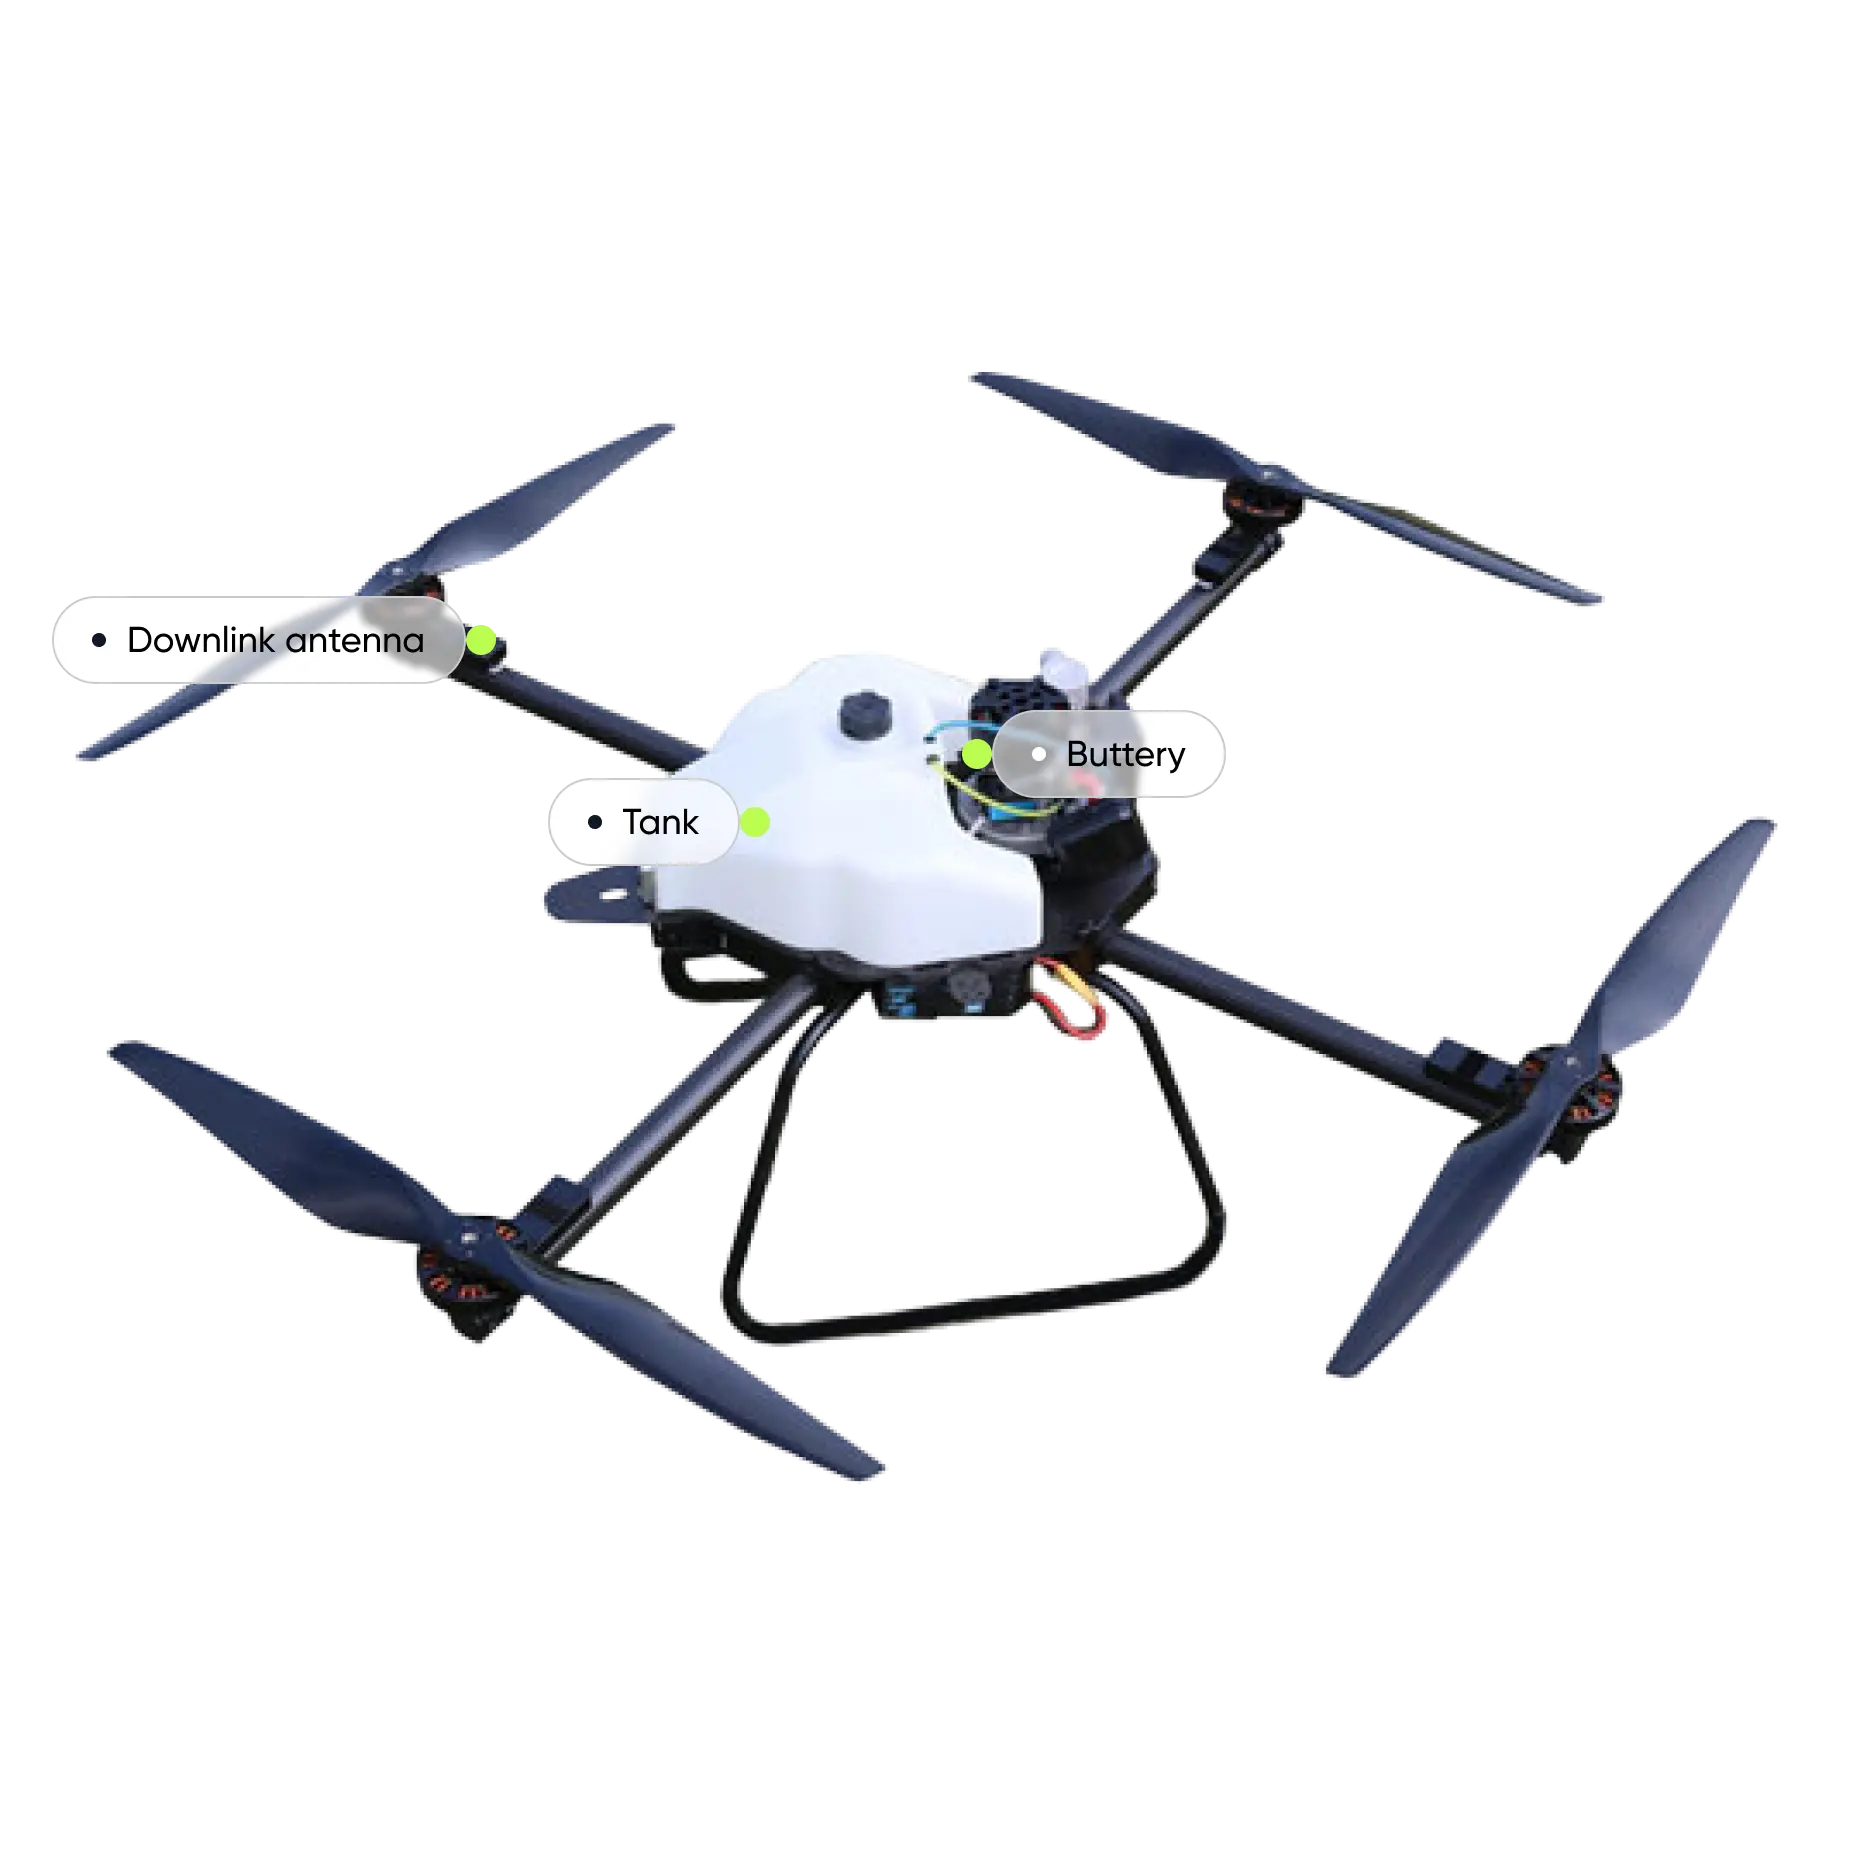
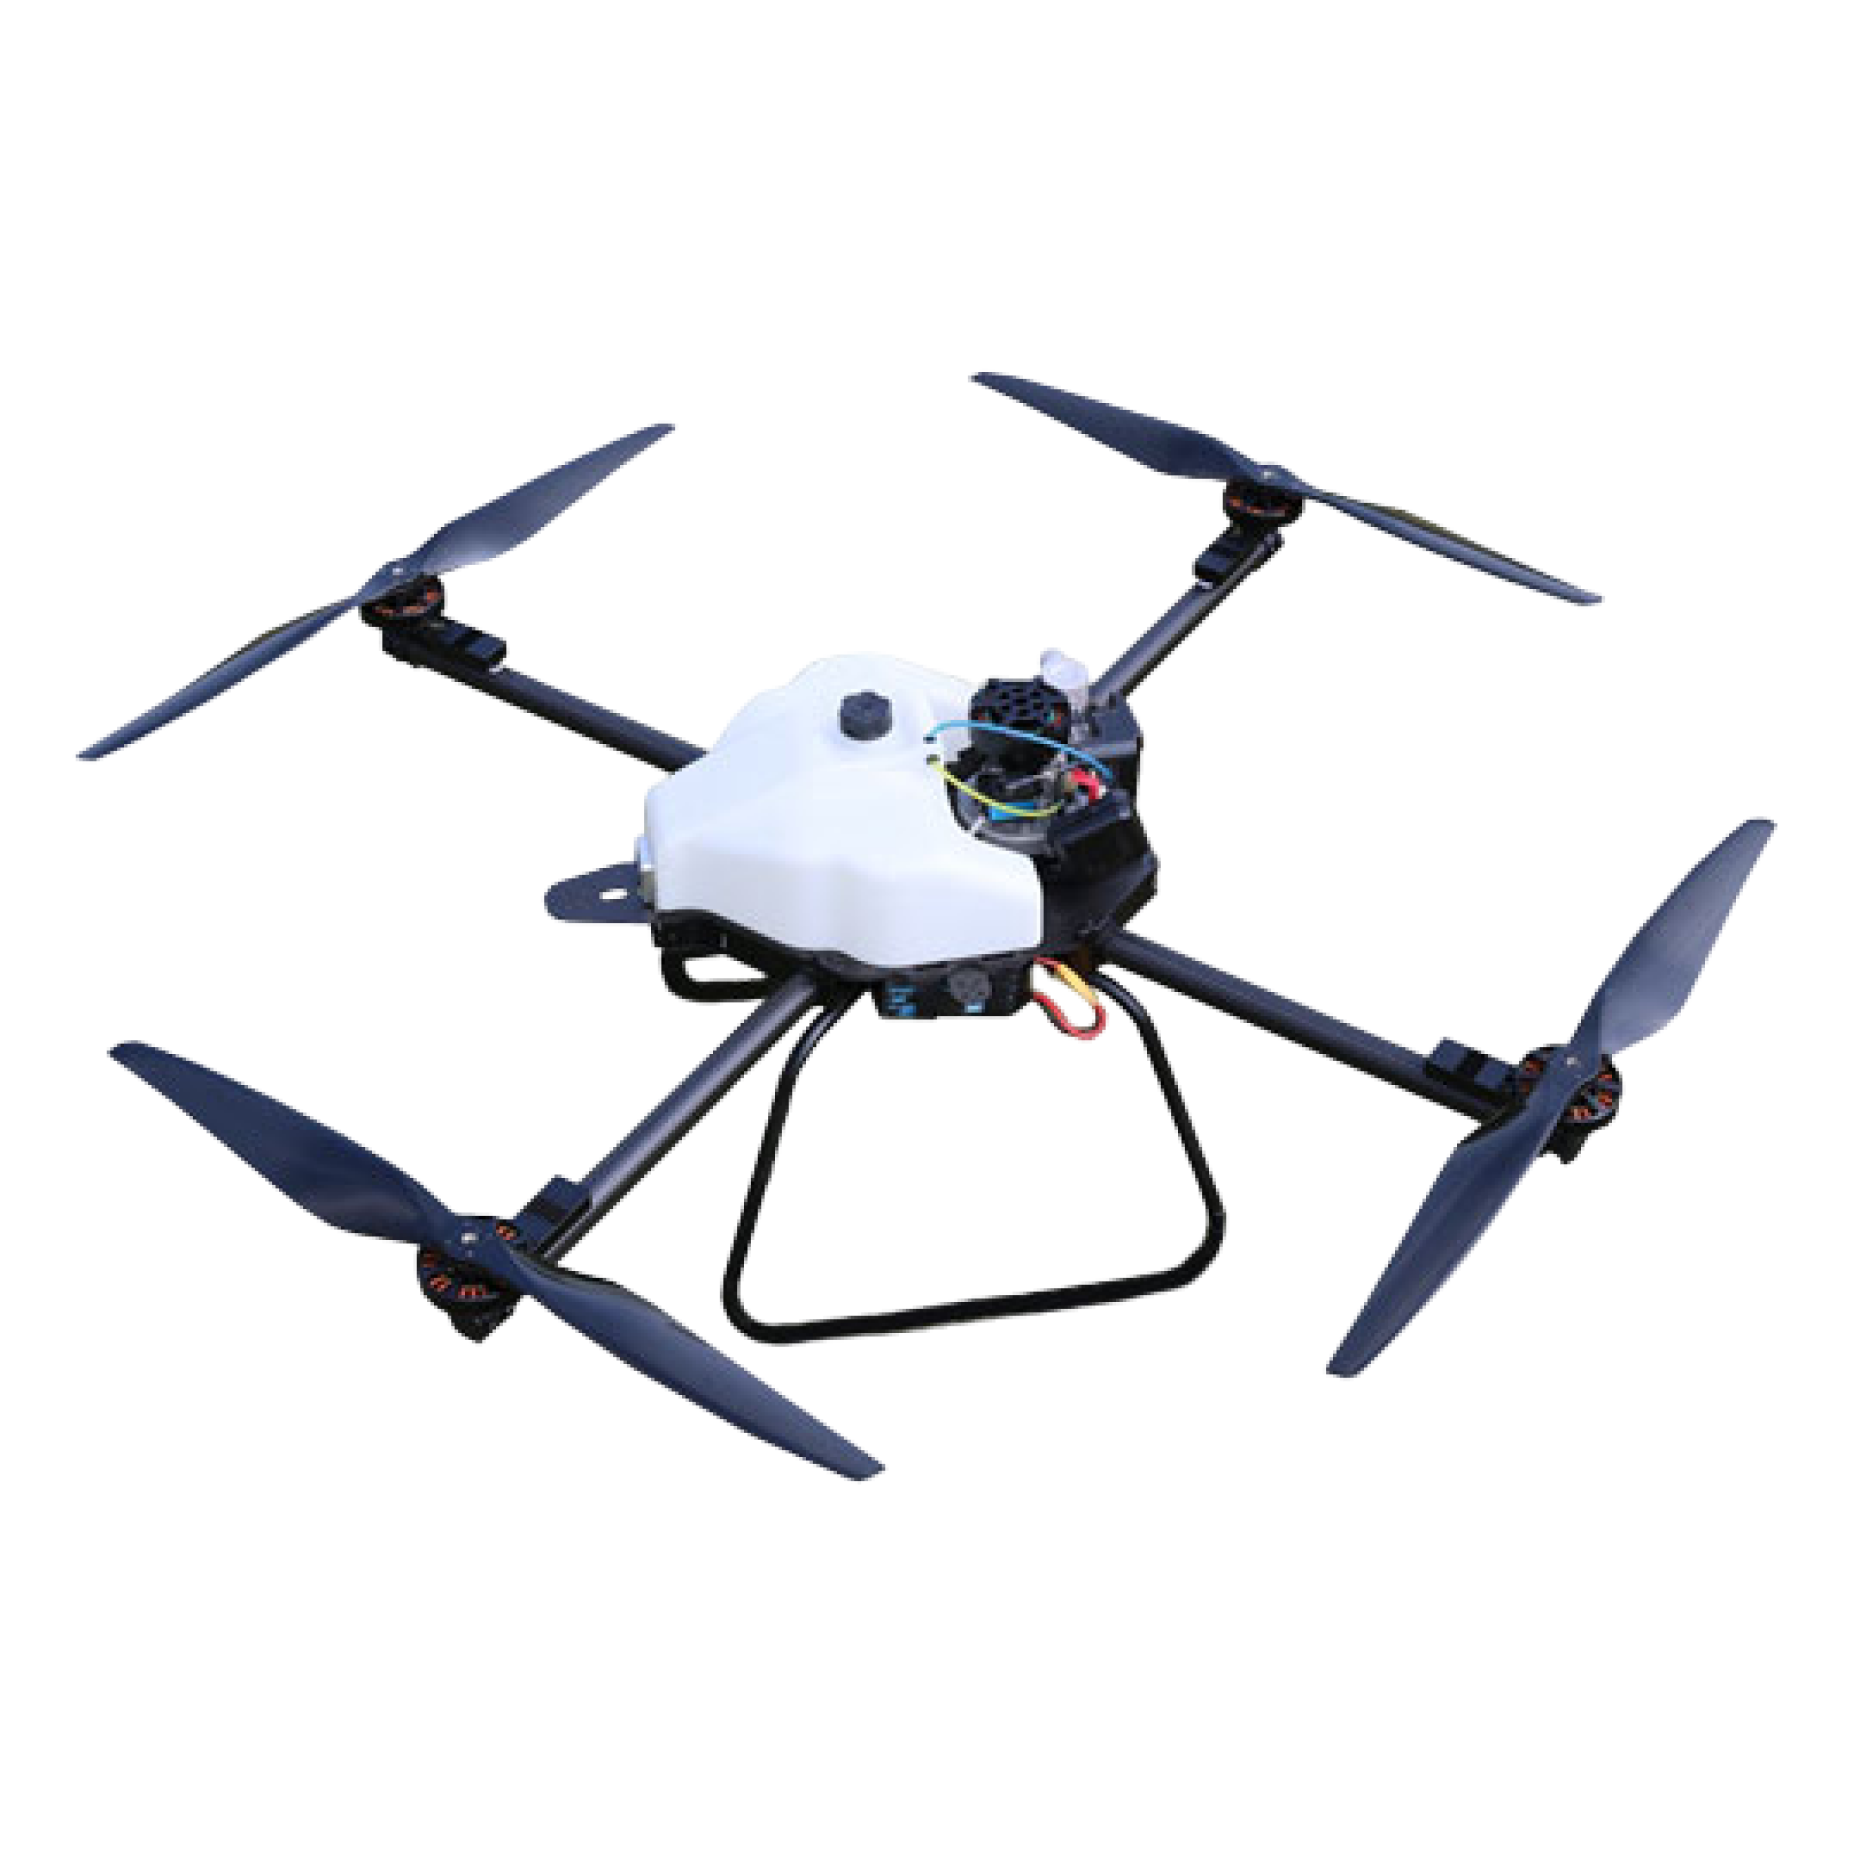
Added tips to images

Changed region(s): [[0.0624, 0.3118, 0.2806, 0.3742], [0.4989, 0.3742, 0.6237, 0.4366], [0.3118, 0.4054, 0.4366, 0.4677]]

diff --git a/src/components/Customize Drone/CustomizeDrone.tsx b/src/components/Customize Drone/CustomizeDrone.tsx
@@ -4,6 +4,7 @@ import { Swiper, SwiperSlide } from 'swiper/react';
 import { Autoplay, Pagination } from 'swiper/modules';
 import 'swiper/css';
 import 'swiper/css/pagination';
+import { useSpring, animated } from '@react-spring/web';
 import { useDashboard } from '../../hooks/useDashboard';
 import DroneTitle from './DroneTitle/DroneTitle';
 import CostInfo from './CostInfo/CostInfo';
@@ -26,6 +27,20 @@ const CustomizeDrone = () => {
       background: 'liddar_drone_background',
       image: liddarDrone,
       link: 'lidar-drone',
+      tips: [
+        {
+          text: 'Downlink antenna',
+          position: { top: '30%', left: '2%' },
+        },
+        {
+          text: 'Battery',
+          position: { top: '39%', left: '54%' },
+        },
+        {
+          text: 'Camera',
+          position: { top: '60%', left: '29%' },
+        },
+      ],
     },
     {
       title: 'Drone Viewer 2700',
@@ -33,6 +48,16 @@ const CustomizeDrone = () => {
       background: 'drone_viewer_background',
       image: droneViewer,
       link: 'drone-viewer',
+      tips: [
+        {
+          text: 'Battery',
+          position: { top: '38%', left: '50%' },
+        },
+        {
+          text: 'Camera',
+          position: { top: '60%', left: '34%' },
+        },
+      ],
     },
     {
       title: 'Drone Agras 250',
@@ -40,6 +65,20 @@ const CustomizeDrone = () => {
       background: 'agro_drone_background',
       image: agroDrone,
       link: 'agriculture-drone',
+      tips: [
+        {
+          text: 'Downlink antenna',
+          position: { top: '33%', left: '4%' },
+        },
+        {
+          text: 'Battery',
+          position: { top: '39%', left: '50%' },
+        },
+        {
+          text: 'Tank',
+          position: { top: '42%', left: '30%' },
+        },
+      ],
     },
   ];
 
@@ -90,7 +129,7 @@ const CustomizeDrone = () => {
           <Swiper
             onSwiper={setSwiper}
             spaceBetween={isAllMobile ? '5%' : '10%'}
-            slidesPerView={1}
+            slidesPerView={'auto'}
             centeredSlides
             loop
             autoplay={{ delay: 3000 }}
@@ -111,11 +150,46 @@ const CustomizeDrone = () => {
                 key={index}
                 className={`${'swiper_slide_customize_drone'} ${isBigScreenOrTablet ? '' : 'customize_background'}`}
               >
-                <img
-                  src={drone.image}
-                  className={s.drone_img}
-                  alt={drone.title}
-                />
+                <div className={s.img_wrapper}>
+                  <img
+                    src={drone.image}
+                    className={s.drone_img}
+                    alt={drone.title}
+                  />
+                  {drone.tips.map((tip, i) => {
+                    const isActive = activeIndex === index;
+                    const tipSpring = useSpring({
+                      opacity: isActive ? 1 : 0,
+                      from: { opacity: 0 },
+                      reset: true,
+                      delay: 500,
+                      key: `${activeIndex}-${i}`,
+                    });
+
+                    return (
+                      <animated.div
+                        key={`${activeIndex}-${i}`}
+                        className={s.tip}
+                        style={{
+                          ...tipSpring,
+                          top: tip.position.top,
+                          left: tip.position.left,
+                        }}
+                      >
+                        {tip.text === 'Battery' && (
+                          <span className={s.point_green}></span>
+                        )}
+                        <div className={s.tip_wrapper}>
+                          <span className={s.point}></span>
+                          {tip.text}
+                        </div>
+                        {tip.text !== 'Battery' && (
+                          <span className={s.point_green}></span>
+                        )}
+                      </animated.div>
+                    );
+                  })}
+                </div>
               </SwiperSlide>
             ))}
           </Swiper>

diff --git a/src/components/Customize Drone/CustomizeDrone.module.css b/src/components/Customize Drone/CustomizeDrone.module.css
@@ -30,7 +30,6 @@
         margin: 0 auto 60px auto;
         max-width: 809px;
     }
-
 }
 
 .circle {
@@ -45,7 +44,6 @@
     background-size: cover;
     background-repeat: no-repeat;
 }
-
 
 .accent_color {
     border: 1px solid #bafc50;
@@ -157,7 +155,6 @@
             background-color: #bafc50;
         }
     }
-
 }
 
 .drone_background {
@@ -200,13 +197,72 @@
     }
 }
 
-.drone_img {
+.img_wrapper {
+    position: relative;
     max-width: 931px;
-    padding: 5%;
+    display: flex;
+    justify-content: center;
+    align-items: center;
+    aspect-ratio: 1 / 1;
+    border-radius: 50%;
+    width: 80%;
+    height: auto;
+}
+
+
+.drone_img {
     width: 100%;
+    height: 100%;
     margin: 0 auto;
+    object-fit: contain;
+    border-radius: 50%;
+}
+
+.tip {
+    display: flex;
+    justify-content: center;
+    align-items: center;
     position: absolute;
-    left: 50%;
-    top: 50%;
-    transform: translateX(-50%) translateY(-50%);
+    transform: scale(0.8);
+
+
+    @media screen and (min-width: 375px) {
+        transform: scale(0.9);
+    }
+
+    @media screen and (min-width: 1200px) {
+        transform: scale(1);
+    }
+
+}
+
+.tip_wrapper {
+    display: flex;
+    justify-content: center;
+    align-items: center;
+    gap: clamp(2px, 1vw, 10px);
+    backdrop-filter: blur (4px);
+    background: rgba(255, 255, 255, 0.6);
+    border: 1px solid #cbcbcb;
+    border-radius: 30px;
+    padding: clamp(2px, 0.6vw, 10px) clamp(4px, 1.6vw, 20px);
+    font-weight: 500;
+    font-size: clamp(4px, 1.4vw, 16px);
+    line-height: 1.33333;
+    text-align: center;
+    color: #000;
+}
+
+.point {
+    border-radius: 100%;
+    background-color: #101828;
+    width: clamp(2px, 0.5vw, 7px);
+    height: clamp(2px, 0.5vw, 7px);
+}
+
+.point_green {
+    border-radius: 100%;
+    background-color: #bafc50;
+    width: clamp(4px, 1.4vw, 15px);
+    height: clamp(4px, 1.4vw, 15px);
 }

diff --git a/src/components/Customize Drone/DroneTitle/DroneTitle.tsx b/src/components/Customize Drone/DroneTitle/DroneTitle.tsx
@@ -1,4 +1,5 @@
 import React from 'react';
+import { useSpring, animated } from '@react-spring/web';
 import { useDashboard } from '../../../hooks/useDashboard';
 import s from './DroneTitle.module.css';
 
@@ -6,6 +7,21 @@ interface DroneTitleProps {
   activeIndex: number;
   titles: string[];
 }
+
+const AnimatedDroneTitle: React.FC<{ title: string }> = ({ title }) => {
+  const titleSpring = useSpring({
+    opacity: 1,
+    from: { opacity: 0 },
+    delay: 500,
+  });
+
+  return (
+    <animated.div style={titleSpring}>
+      <h3 className={s.drone_title}>{title}</h3>
+      <p className={s.equipment}>(basic equipment)</p>
+    </animated.div>
+  );
+};
 
 const DroneTitle: React.FC<DroneTitleProps> = ({ activeIndex, titles }) => {
   const { isBigScreenOrTablet } = useDashboard();
@@ -15,10 +31,8 @@ const DroneTitle: React.FC<DroneTitleProps> = ({ activeIndex, titles }) => {
       key={activeIndex}
       className={`${s.drone_title_wrapper} ${isBigScreenOrTablet ? s.drone_title_wrapper_bigscreen : ''}`}
     >
-      <h3 className={s.drone_title}>{titles[activeIndex]}</h3>
-      <p className={s.equipment}>(basic equipment)</p>
+      <AnimatedDroneTitle title={titles[activeIndex]} />
     </div>
   );
 };
-
 export default DroneTitle;

diff --git a/src/components/Customize Drone/CostInfo/CostInfo.tsx b/src/components/Customize Drone/CostInfo/CostInfo.tsx
@@ -1,4 +1,5 @@
 import { Link } from 'react-router-dom';
+import { useSpring, animated } from '@react-spring/web';
 import { useDashboard } from '../../../hooks/useDashboard';
 import svg from '../../../assets/sprite.svg';
 import s from './CostInfo.module.css';
@@ -9,6 +10,20 @@ interface CostInfoProps {
   costs: number[];
 }
 
+const AnimatedCostValue: React.FC<{ cost: number }> = ({ cost }) => {
+  const costSpring = useSpring({
+    opacity: 1,
+    from: { opacity: 0 },
+    delay: 600,
+  });
+
+  return (
+    <animated.span style={costSpring} className={s.cost_value}>
+      $ {cost}
+    </animated.span>
+  );
+};
+
 const CostInfo: React.FC<CostInfoProps> = ({ activeIndex, links, costs }) => {
   const { isBigScreenOrTablet } = useDashboard();
   return (
@@ -18,7 +33,7 @@ const CostInfo: React.FC<CostInfoProps> = ({ activeIndex, links, costs }) => {
     >
       <p className={s.total_cost}>Total cost:</p>
       <p className={s.cost_value_wrapper}>
-        <span className={s.cost_value}>$ {costs[activeIndex]}</span>
+        <AnimatedCostValue cost={costs[activeIndex]} />
       </p>
       <Link to={links[activeIndex]} className={s.link_base_model}>
         <span>Buy base model</span>

diff --git a/src/components/Customize Drone/DroneTitle/DroneTitle.module.css b/src/components/Customize Drone/DroneTitle/DroneTitle.module.css
@@ -2,17 +2,6 @@
     margin-bottom: 20px;
 }
 
-@keyframes fadeInOut {
-    0% {
-        opacity: 0;
-    }
-
-    100% {
-        opacity: 1;
-    }
-}
-
-
 .drone_title {
     margin-bottom: 10px;
     font-weight: 600;
@@ -20,7 +9,6 @@
     text-transform: capitalize;
     color: #101828;
     text-align: center;
-    animation: fadeInOut 0.5s ease-in-out;
 
     @media screen and (min-width: 768px) {
         font-size: 28px;

diff --git a/src/components/Customize Drone/CostInfo/CostInfo.module.css b/src/components/Customize Drone/CostInfo/CostInfo.module.css
@@ -45,16 +45,6 @@
     color: #121212;
 }
 
-@keyframes fadeInOut {
-    0% {
-        opacity: 0;
-    }
-
-    100% {
-        opacity: 1;
-    }
-}
-
 
 .cost_value_wrapper {
     font-weight: 500;
@@ -70,10 +60,6 @@
         background-color: #fff;
         padding: 10px 35px;
     }
-}
-
-.cost_value {
-    animation: fadeInOut 0.5s ease-in-out;
 }
 
 .link_base_model {
